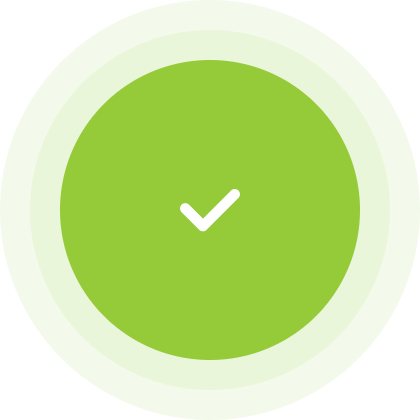
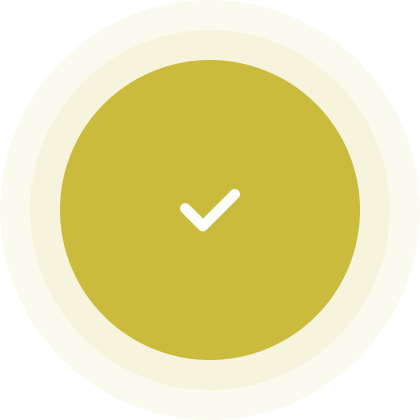
app color changes

diff --git a/src/containers/CcTransactions.js b/src/containers/CcTransactions.js
@@ -37,8 +37,8 @@ const CcTransactions = ({ navigation, route }) => {
   const [senderName, setSenderName] = useState("");
   const dataref = useRef();
   useEffect(() => {
-    // if (dataref.current) return true;
-    // dataref.current = true;
+    if (dataref.current) return true;
+    dataref.current = true;
     getData(page);
     getBalances()
   }, [])
@@ -143,9 +143,9 @@ const CcTransactions = ({ navigation, route }) => {
           <TextComponent
             style={{
               fontSize: actuatedNormalize(18),
-              color: Colors.white,
+              color: Colors.tintGrey,
               fontFamily: Fonts.Rubik_Regular,
-              fontWeight: '400'
+              fontWeight: 'bold'
             }}>
             {item.currency}
           </TextComponent>
@@ -154,7 +154,7 @@ const CcTransactions = ({ navigation, route }) => {
         <TextComponent
           style={{
             fontSize: actuatedNormalize(20),
-            color: Colors.white,
+            color: Colors.tintGrey,
             fontFamily: Fonts.Rubik_Regular,
             fontWeight: 'bold'
           }}>
@@ -282,7 +282,7 @@ const CcTransactions = ({ navigation, route }) => {
                   <TextComponent
                     style={{
                       fontSize: actuatedNormalize(18),
-                      color: Colors.white,
+                      color: Colors.lightGreen,
                       fontFamily: Fonts.Rubik_Regular,
                       fontWeight: '400'
                     }}>
@@ -336,9 +336,9 @@ const CcTransactions = ({ navigation, route }) => {
                     <View style={{ flexDirection: 'row', alignItems: 'center', justifyContent: 'space-between', width: "100%", borderBottomColor: Colors.lightGrey, borderBottomWidth: 0.5, paddingBottom: 8 }}>
                       <View style={{ flexDirection: 'row' }}>
                         {item.type == 'credit' ?
-                          <Ionicons name="arrow-down-circle" size={40} color={Colors.lightGrey} />
+                          <Ionicons name="arrow-down-circle" size={40} color={Colors.lighBlue} />
                           :
-                          <Ionicons name="arrow-up-circle" size={40} color={Colors.lightGrey} />
+                          <Ionicons name="arrow-up-circle" size={40} color={Colors.lighBlue} />
                         }
                         <View style={{ marginLeft: 5 }}>
                           <TextComponent style={{ color: Colors.black, fontWeight: 'bold' }}>
@@ -369,14 +369,14 @@ const CcTransactions = ({ navigation, route }) => {
                       <View style={{ paddingRight: actuatedNormalize(8), alignItems: 'flex-end', justifyContent: 'flex-end' }}>
                         <TextComponent
                           style={item.type == 'credit' ? {
-                            color: Colors.lightGreen,
+                            color: Colors.lighBlue,
                             fontFamily: Fonts.Rubik_Medium,
                             fontSize: actuatedNormalize(14),
                             alignItems: 'flex-end', justifyContent: 'flex-end'
                           } :
                             item.type == 'debit' ?
                               {
-                                color: Colors.primary,
+                                color: Colors.lighBlue,
                                 fontFamily: Fonts.Rubik_Medium,
                                 fontSize: actuatedNormalize(14),
                                 alignItems: 'flex-end', justifyContent: 'flex-end'

diff --git a/src/containers/DobAddress.js b/src/containers/DobAddress.js
@@ -288,11 +288,12 @@ const DobAddress = ({ navigation }) => {
                 onBlur={() => setSearchFocussed(false)}
               />
               <PrimaryButton
-                primaryButtonContainer={{ borderRadius: 25, width: "22%", marginTop: actuatedNormalize(20), marginLeft: 10 }}
+                primaryButtonContainer={{ borderRadius: 25, width: "22%", marginTop: actuatedNormalize(20), marginLeft: 10,backgroundColor: Colors.smokeWhite }}
                 primaryButtonText={{
                   fontFamily: Fonts.Rubik_Medium,
                   fontSize: actuatedNormalize(14),
-                  color: Colors.white,
+                  color: Colors.black,
+                  backgroundColor: Colors.smokeWhite
                 }}
                 onPress={() => searchAddress()}
                 label={'Search'}

diff --git a/src/containers/BusinessDetails.js b/src/containers/BusinessDetails.js
@@ -247,11 +247,11 @@ const BusinessDetails = ({ navigation }) => {
                 onBlur={() => setSearchFocussed(false)}
               />
               <PrimaryButton
-                primaryButtonContainer={{ borderRadius: 25, width: "22%", marginTop: actuatedNormalize(20), marginLeft: 10 }}
+                primaryButtonContainer={{ borderRadius: 25, width: "22%", marginTop: actuatedNormalize(20), marginLeft: 10,backgroundColor: Colors.smokeWhite }}
                 primaryButtonText={{
                   fontFamily: Fonts.Rubik_Medium,
                   fontSize: actuatedNormalize(14),
-                  color: Colors.white,
+                  color: Colors.black,
                 }}
                 onPress={() => searchCompany()}
                 label={'Search'}

diff --git a/src/constants/Colors.js b/src/constants/Colors.js
@@ -1,14 +1,14 @@
 export default {
-    primary:"#F71F3E",
+    primary:"#ffce32",
     white:"	rgb(255,255,255)",
     black:"#000000",
     smokeWhite:"#F8F8F8",
-    lightGrey:"#DDE0E6",
-    tintGrey:"#767676",
-    backgroundColor: "#dfeaf0",
+    lightGrey:"#000000",
+    tintGrey:"#000000",
+    backgroundColor: "#ffce32",
     bodyBackgroundColor: "#ffffff",
-    radioButton: "#5cd169",
-    lightGreen:"#95CB39",
-    lighBlue:"#4285f4",
-    backgroundColors:['#cc0033','#380096','#0d5a06','#914c08','#ad990a','#4e4a4a'],
+    radioButton: "#000000",
+    lightGreen:"#ffce32",
+    lighBlue:"#000000",
+    backgroundColors:['#F8F8F8','#F8F8F8','#F8F8F8','#F8F8F8','#F8F8F8','#F8F8F8'],
 }

diff --git a/src/components/ButtonCollection.js b/src/components/ButtonCollection.js
@@ -90,7 +90,7 @@ const styles = StyleSheet.create({
     primaryButtonText: {
         fontFamily: Fonts.Rubik_Regular,
         fontSize: actuatedNormalize(12),
-        color: "#F5F5F5"
+        color: Colors.white
     },
     primaryButtonSmallContainer: {
         width: "50%",
@@ -115,7 +115,7 @@ const styles = StyleSheet.create({
     primaryButtonSmallText: {
         fontFamily: Fonts.Rubik_Regular,
         fontSize: actuatedNormalize(12),
-        color: "#F5F5F5"
+        color: Colors.white
     }
 
 })
